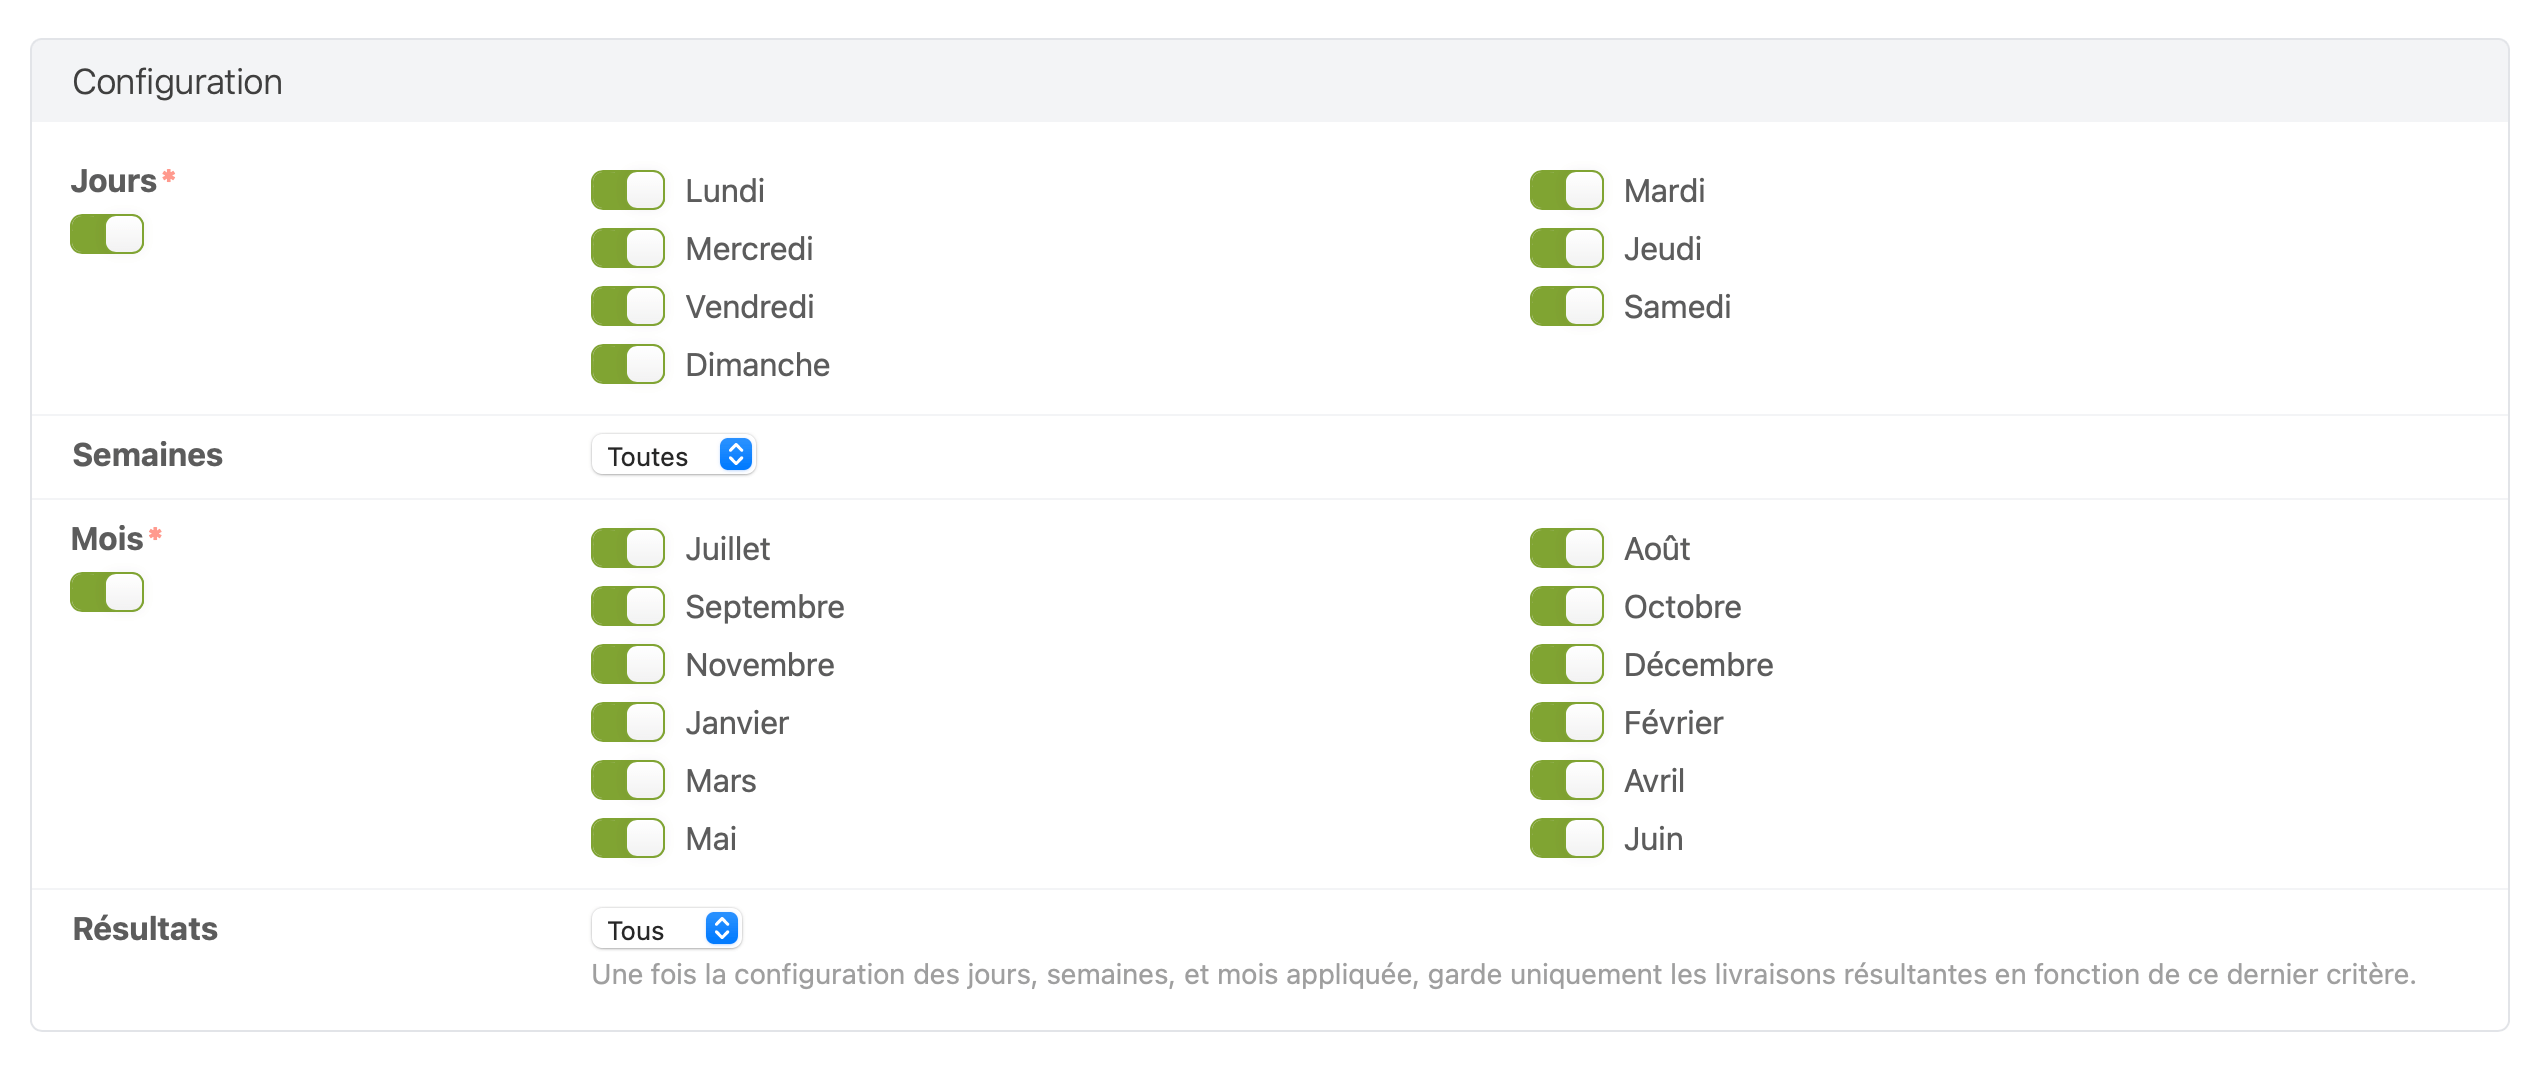
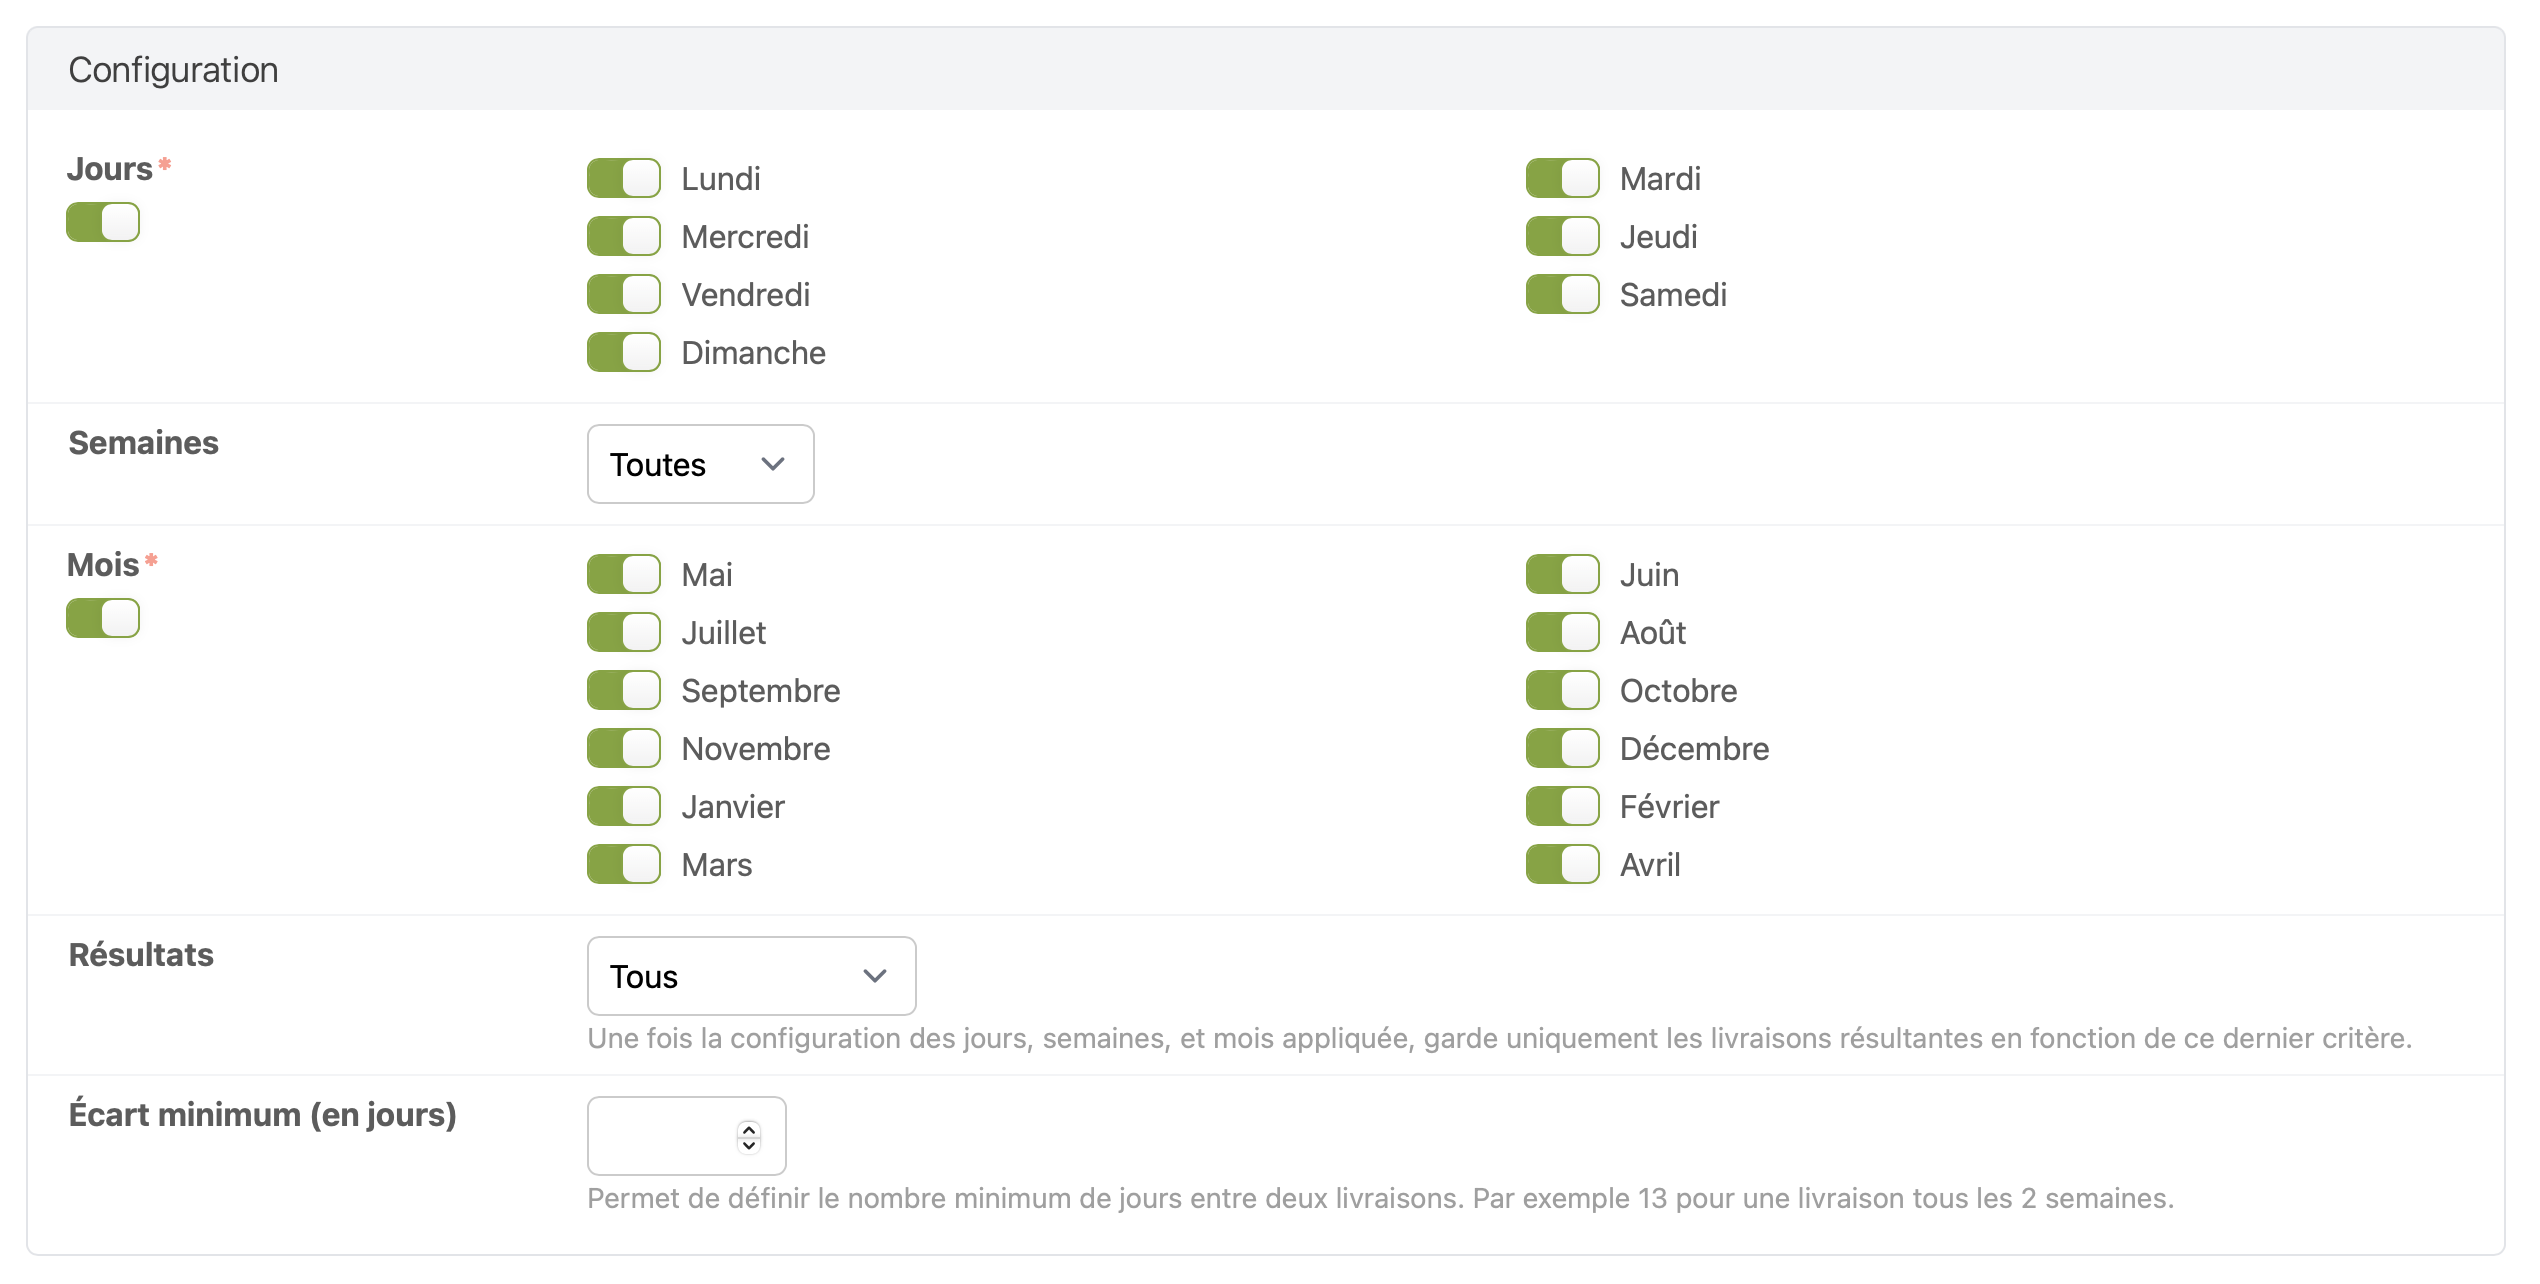
DeliveriesCycle, add minimum_gap_in_days and all_but_first results
ACP with a different deliveries schedule across they year, for example
40 deliveries but every week during summer and every 2 weeks during
winter, that want to propose a cycle every 2 weeks weren't able to do
it. As the cycle was every 2 results, it switched to every 4 weeks
during winter.

This patch introduces a new `minimum_gap_in_days` attribute that allows
to define the minimum number of days between 2 deliveries. For example
13 for a delivery every 2 weeks.

The new `all_but_first` results allows to skip the first result of the
cycle. For example, if the cycle is every 2 weeks, it will skip the
first week of the year.

Close https://github.com/acp-admin/acp-admin/issues/102

diff --git a/app/models/deliveries_cycle.rb b/app/models/deliveries_cycle.rb
@@ -14,6 +14,7 @@ class DeliveriesCycle < ApplicationRecord
     all
     odd even
     quarter_1 quarter_2 quarter_3 quarter_4
+    all_but_first
   ], _suffix: true
 
   has_many :memberships
@@ -24,6 +25,13 @@ class DeliveriesCycle < ApplicationRecord
   translated_attributes :name, required: true
 
   default_scope { order_by_name }
+
+  validates :minimum_gap_in_days,
+    numericality: {
+      greater_than_or_equal_to: 1,
+      only_integer: true,
+      allow_nil: true
+  }
 
   after_save :reset_cache!
   after_commit :update_baskets_async, on: :update
@@ -141,7 +149,9 @@ class DeliveriesCycle < ApplicationRecord
     elsif even_week_numbers?
       scoped = scoped.where('EXTRACT(WEEK FROM date)::integer % 2 = ?', 0)
     end
-    if odd_results?
+    if all_but_first_results?
+      scoped = scoped.to_a[1..-1] || []
+    elsif odd_results?
       scoped = scoped.to_a.select.with_index { |_, i| (i + 1).odd? }
     elsif even_results?
       scoped = scoped.to_a.select.with_index { |_, i| (i + 1).even? }
@@ -154,6 +164,9 @@ class DeliveriesCycle < ApplicationRecord
     elsif quarter_4_results?
       scoped = scoped.to_a.select.with_index { |_, i| i % 4 == 3 }
     end
+    if minimum_gap_in_days.present?
+      scoped = enforce_minimum_gap_in_days(scoped.to_a)
+    end
     scoped
   end
 
@@ -161,5 +174,15 @@ class DeliveriesCycle < ApplicationRecord
 
   def update_baskets_async
     DeliveriesCycleBasketsUpdaterJob.perform_later(self)
+  end
+
+  def enforce_minimum_gap_in_days(deliveries)
+    past_date = nil
+    deliveries.select { |d|
+      if past_date.nil? || (d.date - past_date) >= minimum_gap_in_days
+        past_date = d.date
+        true
+      end
+    }
   end
 end

diff --git a/spec/models/deliveries_cycle_spec.rb b/spec/models/deliveries_cycle_spec.rb
@@ -69,6 +69,16 @@ describe DeliveriesCycle, freeze: '2022-01-01' do
     expect(cycle.current_deliveries.pluck(:date).map(&:cweek)).to eq [52, 2, 4, 6, 8]
   end
 
+  specify 'all but first results' do
+    Array(0..9).each do |i|
+      create(:delivery, date: Date.today + i.day)
+    end
+
+    cycle = create(:deliveries_cycle, results: :all_but_first)
+    expect(cycle.current_deliveries_count).to eq 9
+    expect(cycle.current_deliveries.pluck(:number)).to eq (2..10).to_a
+  end
+
   specify 'only odd results' do
     Array(0..9).each do |i|
       create(:delivery, date: Date.today + i.day)
@@ -127,6 +137,20 @@ describe DeliveriesCycle, freeze: '2022-01-01' do
     cycle = create(:deliveries_cycle, results: :quarter_4)
     expect(cycle.current_deliveries_count).to eq 2
     expect(cycle.current_deliveries.pluck(:number)).to eq [4, 8]
+  end
+
+  specify 'minimum 3 days gap' do
+    Array(0..9).each do |i|
+      create(:delivery, date: Date.today + i.day)
+    end
+
+    cycle = create(:deliveries_cycle, minimum_gap_in_days: 3)
+    expect(cycle.current_deliveries_count).to eq 4
+    expect(cycle.current_deliveries.pluck(:number)).to eq [1, 4, 7, 10]
+
+    cycle = create(:deliveries_cycle, minimum_gap_in_days: 3, results: :all_but_first)
+    expect(cycle.current_deliveries_count).to eq 3
+    expect(cycle.current_deliveries.pluck(:number)).to eq [2, 5, 8]
   end
 
   specify 'only Tuesday, in Janury, odd weeks, and even results' do

diff --git a/app/admin/deliveries_cycle.rb b/app/admin/deliveries_cycle.rb
@@ -89,6 +89,7 @@ ActiveAdmin.register DeliveriesCycle do
             end
           }
           row(:results) { t("deliveries_cycle.results.#{dc.results}") }
+          row(:minimum_gap_in_days) { dc.minimum_gap_in_days }
         end
 
         panel Depot.model_name.human(count: 2) do
@@ -137,6 +138,7 @@ ActiveAdmin.register DeliveriesCycle do
         as: :select,
         collection: results_collection,
         include_blank: false
+      f.input :minimum_gap_in_days
     end
 
     f.inputs do
@@ -153,6 +155,7 @@ ActiveAdmin.register DeliveriesCycle do
     :member_order_priority,
     :week_numbers,
     :results,
+    :minimum_gap_in_days,
     *I18n.available_locales.map { |l| "name_#{l}" },
     *I18n.available_locales.map { |l| "public_name_#{l}" },
     wdays: [],

diff --git a/db/schema.rb b/db/schema.rb
@@ -10,7 +10,7 @@
 #
 # It's strongly recommended that you check this file into your version control system.
 
-ActiveRecord::Schema[7.0].define(version: 2023_08_10_153313) do
+ActiveRecord::Schema[7.0].define(version: 2023_08_25_070903) do
   # These are extensions that must be enabled in order to support this database
   enable_extension "hstore"
   enable_extension "plpgsql"
@@ -373,6 +373,7 @@ ActiveRecord::Schema[7.0].define(version: 2023_08_10_153313) do
     t.datetime "updated_at", null: false
     t.jsonb "deliveries_counts", default: {}, null: false
     t.integer "member_order_priority", default: 1, null: false
+    t.integer "minimum_gap_in_days"
     t.index ["visible"], name: "index_deliveries_cycles_on_visible"
   end
 

diff --git a/app/helpers/deliveries_cycles_helper.rb b/app/helpers/deliveries_cycles_helper.rb
@@ -16,9 +16,12 @@ module DeliveriesCyclesHelper
   end
 
   def results_collection
-    DeliveriesCycle.results.map { |enum, _|
+    col = DeliveriesCycle.results.map { |enum, _|
       [I18n.t("deliveries_cycle.results.#{enum}"), enum]
     }
+    # Move "all_but_first" just after "all"
+    col.insert(1, col.delete_at(7))
+    col
   end
 
   def depot_ids_with_only(delivery_cycle)

diff --git a/db/migrate/20230825070903_add_minimum_gap_in_days_to_deliveries_cycles.rb b/db/migrate/20230825070903_add_minimum_gap_in_days_to_deliveries_cycles.rb
@@ -1,0 +1,5 @@
+class AddMinimumGapInDaysToDeliveriesCycles < ActiveRecord::Migration[7.0]
+  def change
+    add_column :deliveries_cycles, :minimum_gap_in_days, :integer
+  end
+end
